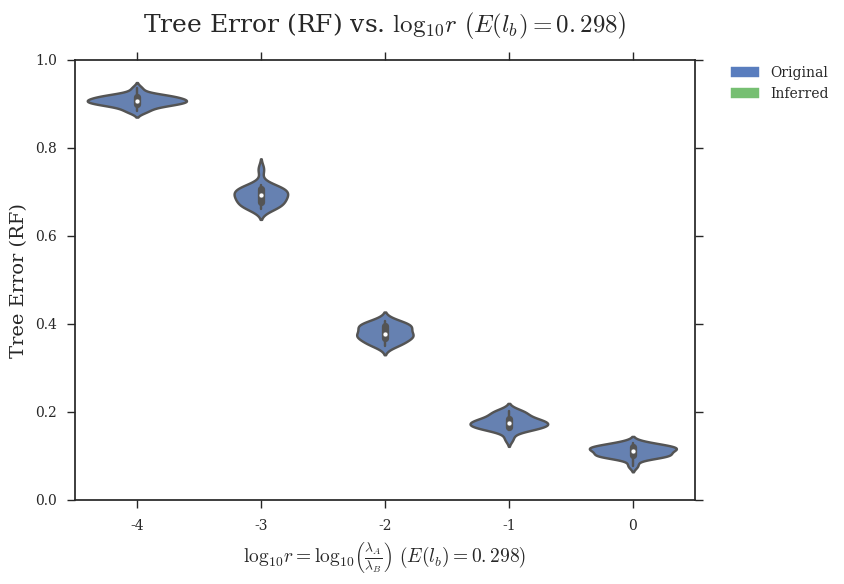
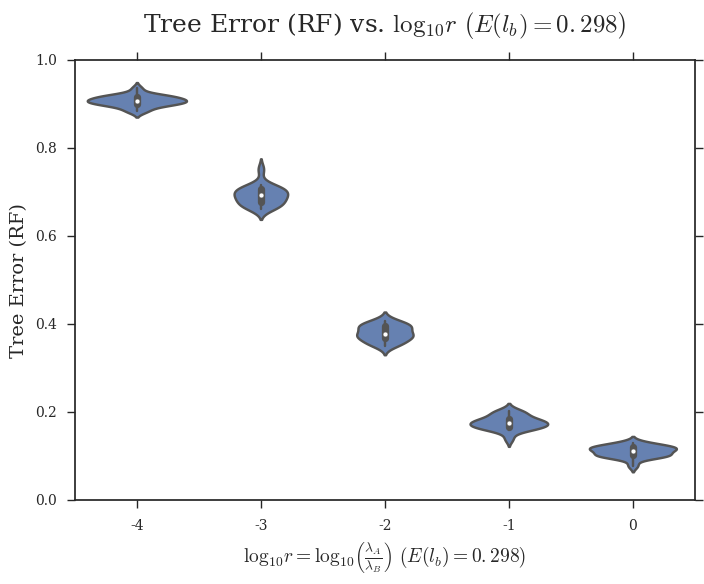
Removed legends

diff --git a/figures/scripts/3_tree-error-rf-vs-parameters.py b/figures/scripts/3_tree-error-rf-vs-parameters.py
@@ -67,66 +67,56 @@ g_data = {'gammarate':np.array([2.952]*20+[5.904]*20+[29.518]*20+[147.591]*20+[2
              ).astype(float)}
 
 # plot tree error (RF) vs. r (with different lambda = lambdaA+lambdaB to keep expected branch length constant)
-handles = [Patch(color='#597DBE',label='Original'),Patch(color='#76BF72',label='Inferred')]
 fig = plt.figure()
 x = np.array([-4,-3,-2,-1,0])
 ax = sns.violinplot(x='r',y='RF',data=pd.DataFrame(r_data),order=x,color='#597DBE')
-legend = plt.legend(handles=handles,bbox_to_anchor=(1.05, 1), loc=2, borderaxespad=0.)
 sns.plt.xlabel(r'$\log_{10}{r} = \log_{10}{\left(\frac{\lambda_A}{\lambda_B}\right)}\ \left(E(l_b)=0.298\right)$',fontsize=14)
 sns.plt.ylabel('Tree Error (RF)',fontsize=14)
 sns.plt.title(r'Tree Error (RF) vs. $\log_{10}{r}\ \left(E(l_b)=0.298\right)$',fontsize=18,y=1.05)
 sns.plt.show()
-fig.savefig('tree-error-rf_vs_r_const-exp-branch-length.png', bbox_extra_artists=(legend,), bbox_inches='tight')
+fig.savefig('tree-error-rf_vs_r_const-exp-branch-length.png', bbox_inches='tight')
 plt.close()
 
 # plot tree error (RF) vs. r (with constant lambda = lambdaA + lambdaB)
-handles = [Patch(color='#597DBE',label='Original'),Patch(color='#76BF72',label='Inferred')]
 fig = plt.figure()
 x = np.array([-4,-3,-2,-1,0])
 ax = sns.violinplot(x='r',y='RF',data=pd.DataFrame(r2_data),order=x,color='#597DBE')
-legend = plt.legend(handles=handles,bbox_to_anchor=(1.05, 1), loc=2, borderaxespad=0.)
 sns.plt.xlabel(r'$\log_{10}{r} = \log_{10}{\left(\frac{\lambda_A}{\lambda_B}\right)}\ \left(\lambda = \lambda_A + \lambda_B = 169\right)$',fontsize=14)
 sns.plt.ylabel('Tree Error (RF)',fontsize=14)
 sns.plt.title(r'Tree Error (RF) vs. $\log_{10}{r}\ \left(\lambda=\lambda_A+\lambda_B=169\right)$',fontsize=18,y=1.05)
 sns.plt.show()
-fig.savefig('tree-error-rf_vs_r_const-lambda.png', bbox_extra_artists=(legend,), bbox_inches='tight')
+fig.savefig('tree-error-rf_vs_r_const-lambda.png', bbox_inches='tight')
 plt.close()
 
 # plot tree error (RF) vs. lambda
-handles = [Patch(color='#597DBE',label='Original'),Patch(color='#76BF72',label='Inferred')]
 fig = plt.figure()
 x = np.array([33.866,84.664,169.328,338.655,846.638])
 ax = sns.violinplot(x='lambda',y='RF',data=pd.DataFrame(l_data),order=x,color='#597DBE')
-legend = plt.legend(handles=handles,bbox_to_anchor=(1.05, 1), loc=2, borderaxespad=0.)
 sns.plt.xlabel(r'$\lambda = \lambda_A + \lambda_B$',fontsize=14)
 sns.plt.ylabel('Tree Error (RF)',fontsize=14)
 sns.plt.title(r'Tree Error (RF) vs. $\lambda$',fontsize=18,y=1.05)
 sns.plt.show()
-fig.savefig('tree-error-rf_vs_lambda.png', bbox_extra_artists=(legend,), bbox_inches='tight')
+fig.savefig('tree-error-rf_vs_lambda.png', bbox_inches='tight')
 plt.close()
 
 # plot tree error (RF) vs. length
-handles = [Patch(color='#597DBE',label='Original'),Patch(color='#76BF72',label='Inferred')]
 fig = plt.figure()
 x = np.array([50,100,200,300,600,1200,2400,4800])
 ax = sns.violinplot(x='length',y='RF',data=pd.DataFrame(k_data),order=x,color='#597DBE')
-legend = plt.legend(handles=handles,bbox_to_anchor=(1.05, 1), loc=2, borderaxespad=0.)
 sns.plt.xlabel('Sequence Length',fontsize=14)
 sns.plt.ylabel('Tree Error (RF)',fontsize=14)
 sns.plt.title('Tree Error (RF) vs. Sequence Length',fontsize=18,y=1.05)
 sns.plt.show()
-fig.savefig('tree-error-rf_vs_length.png', bbox_extra_artists=(legend,), bbox_inches='tight')
+fig.savefig('tree-error-rf_vs_length.png', bbox_inches='tight')
 plt.close()
 
 # plot tree error (RF) vs. gamma rate
-handles = [Patch(color='#597DBE',label='Original'),Patch(color='#76BF72',label='Inferred')]
 fig = plt.figure()
 x = np.array([2.952,5.904,29.518,147.591,295.182,float('inf')])
 ax = sns.violinplot(x='gammarate',y='RF',data=pd.DataFrame(g_data),order=x,color='#597DBE')
-legend = plt.legend(handles=handles,bbox_to_anchor=(1.05, 1), loc=2, borderaxespad=0.)
 sns.plt.xlabel(r'Gamma Distribution Rate $\left(\alpha\right)$',fontsize=14)
 sns.plt.ylabel('Tree Error (RF)',fontsize=14)
 sns.plt.title('Tree Error (RF) vs. Deviation from Ultrametricity',fontsize=18,y=1.05)
 sns.plt.show()
-fig.savefig('tree-error-rf_vs_gammarate.png', bbox_extra_artists=(legend,), bbox_inches='tight')
+fig.savefig('tree-error-rf_vs_gammarate.png', bbox_inches='tight')
 plt.close()
